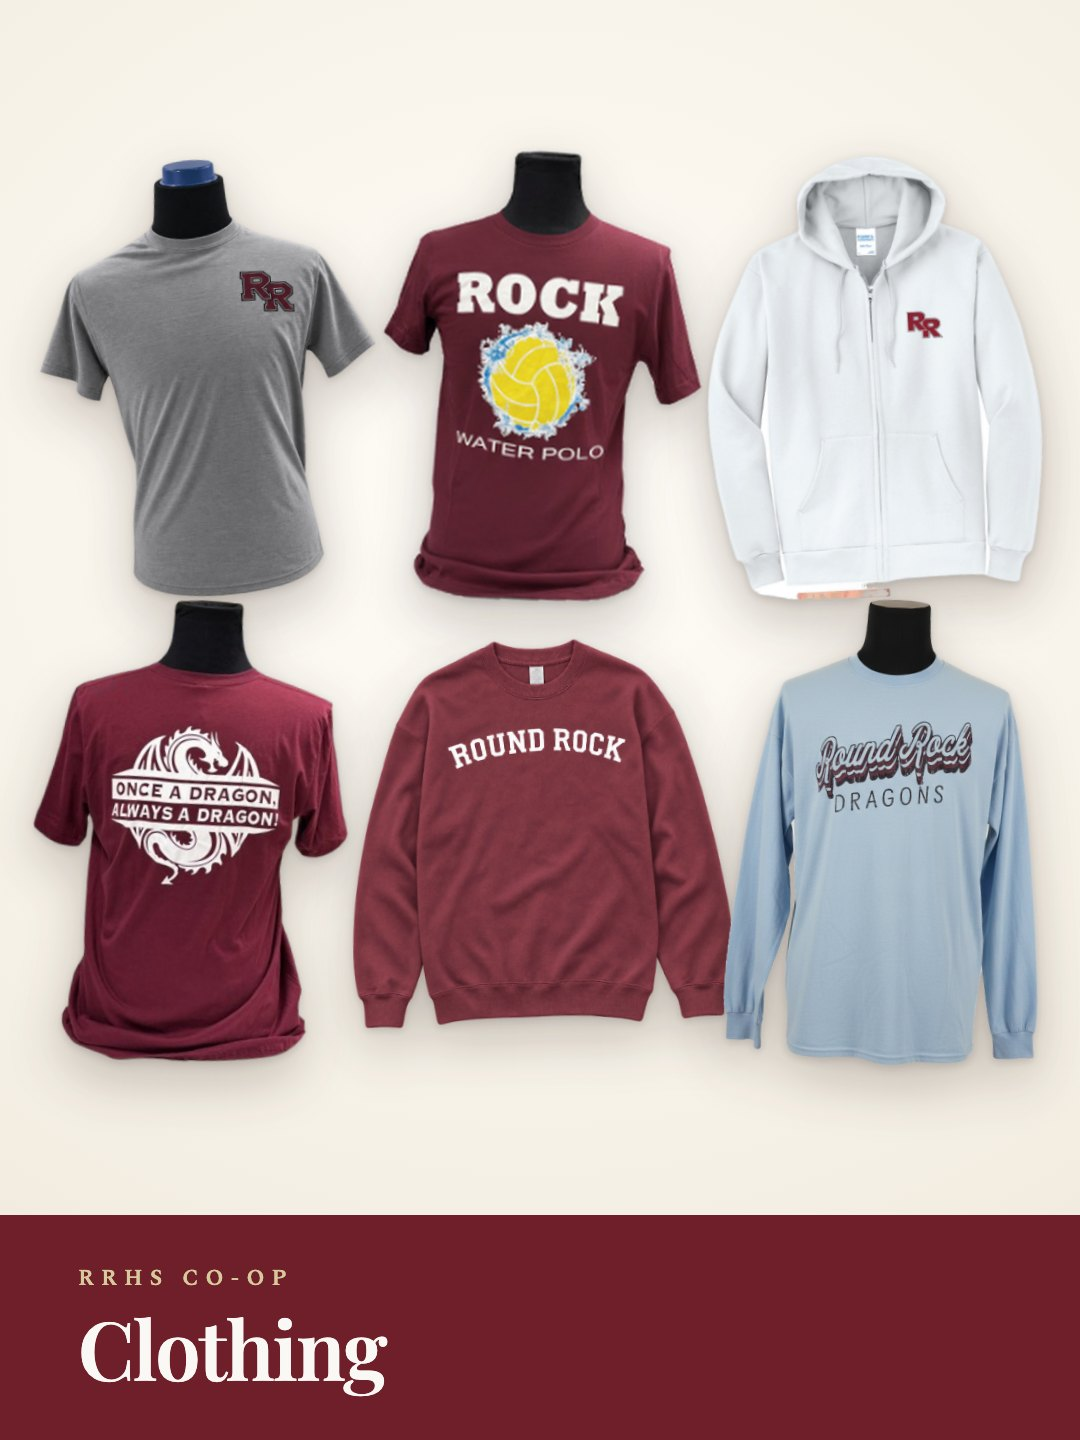
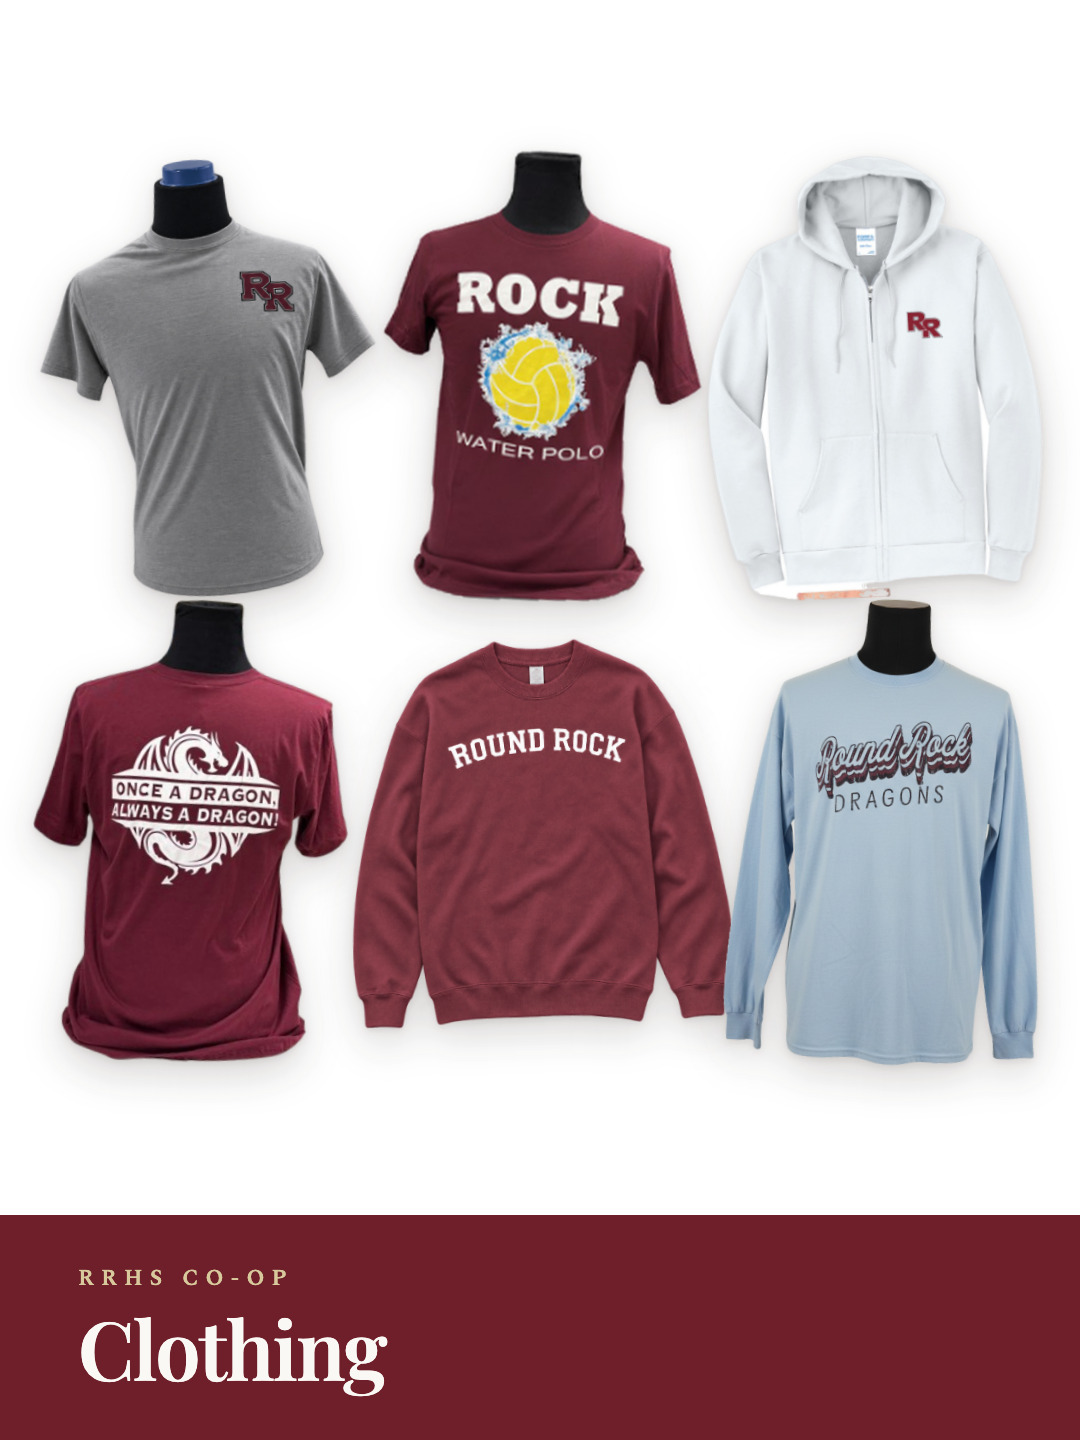
Sharper category cards: white collages at full resolution with a thin border
Ecwid serves category images at 300x400 on ~360px cards, so they looked
soft. rrhs-category-images.js swaps in the 1080x1440 collages hosted here
and adds a thin border; collages regenerated on white and re-uploaded.

diff --git a/custom-visuals/rrhs-category-images.js b/custom-visuals/rrhs-category-images.js
@@ -1,0 +1,92 @@
+/* rrhs-category-images.js - sharp category collages + thin card border
+ *
+ * Ecwid serves category images to the storefront grid at 300x400 (1x) and
+ * 600x800 (2x), which looks soft on ~360px-wide cards. This swaps each card's
+ * image for the full 1080x1440 collage hosted here, and gives the cards a thin
+ * border so the white collages sit cleanly on the page background.
+ *
+ * To update a collage: replace the file in custom-visuals/category-collages/,
+ * bump VERSION, and (optionally) upload it to the Ecwid category as well.
+ */
+(function () {
+  if (window.__rrhsCategoryImagesInstalled) return;
+  window.__rrhsCategoryImagesInstalled = true;
+
+  const VERSION = "2";
+  const COLLAGES = {
+    176456552: "merchandise",
+    176829765: "school-supplies",
+    196908210: "chick-fil-a",
+    207074251: "snacks",
+    207074751: "drinks",
+    207074752: "accessories",
+    209045861: "bars",
+    209045862: "soda",
+    209045863: "water",
+    209045866: "short-sleeves",
+    209048120: "chips",
+    209048121: "juice",
+    209048122: "long-sleeves",
+    209048129: "protein-shakes",
+    209048239: "clothing",
+    209048610: "gum-mints",
+    209048611: "energy-drinks",
+    209048623: "snacks-drinks"
+  };
+
+  const base = (function () {
+    try {
+      const cur = document.currentScript;
+      if (cur && cur.src) return new URL("category-collages/", cur.src).href;
+    } catch (e) {}
+    return "https://rrhscoop-assets.vercel.app/custom-visuals/category-collages/";
+  })();
+
+  function ensureStyles() {
+    if (document.getElementById("rrhs-category-image-styles")) return;
+    const style = document.createElement("style");
+    style.id = "rrhs-category-image-styles";
+    style.textContent = `
+      #ecwid-products .grid__categories .grid-category__card {
+        border: 1px solid rgba(110, 31, 42, .22);
+        overflow: hidden;
+        background: #fff;
+      }
+      #ecwid-products .grid__categories .grid-category__bg-color {
+        background-color: #fff !important;
+      }
+    `;
+    (document.head || document.documentElement).appendChild(style);
+  }
+
+  function categoryId(card) {
+    const link = card.querySelector("[data-category-id]");
+    if (link) return link.getAttribute("data-category-id");
+    const m = String(card.className).match(/grid-category--id-(\d+)/);
+    return m ? m[1] : null;
+  }
+
+  function swap() {
+    const cards = document.querySelectorAll("#ecwid-products .grid-category");
+    if (!cards.length) return;
+    ensureStyles();
+    cards.forEach((card) => {
+      const slug = COLLAGES[categoryId(card)];
+      if (!slug) return;
+      const url = `${base}${slug}.jpg?v=${VERSION}`;
+      card.querySelectorAll("img.grid-category__picture-img").forEach((img) => {
+        if (img.dataset.rrhsCollage === url) return;
+        img.dataset.rrhsCollage = url;
+        img.removeAttribute("srcset");
+        img.src = url;
+      });
+    });
+  }
+
+  const runtime = window.RRHS_RUNTIME;
+  if (runtime && typeof runtime.onDomChanged === "function") runtime.onDomChanged(swap);
+  else if (typeof MutationObserver !== "undefined") {
+    new MutationObserver(swap).observe(document.documentElement, { childList: true, subtree: true });
+  }
+  swap();
+})();

diff --git a/index.js b/index.js
@@ -127,6 +127,7 @@
     url('custom-visuals/rrhs-by-the-numbers.js?v=1'),
     url('custom-visuals/rrhs-featured-product.js?v=3'),
     url('custom-visuals/rrhs-select.js?v=3'),
+    url('custom-visuals/rrhs-category-images.js?v=1'),
     url('check-out-page/rrhscoop-checkout.js?v=3'),
     inventoryGuardEnabled && url('check-out-page/rrhs-inventory-guard.js'),
     stoleDrawerEnabled && url('check-out-page/rrhs-stole-drawer.js'),
